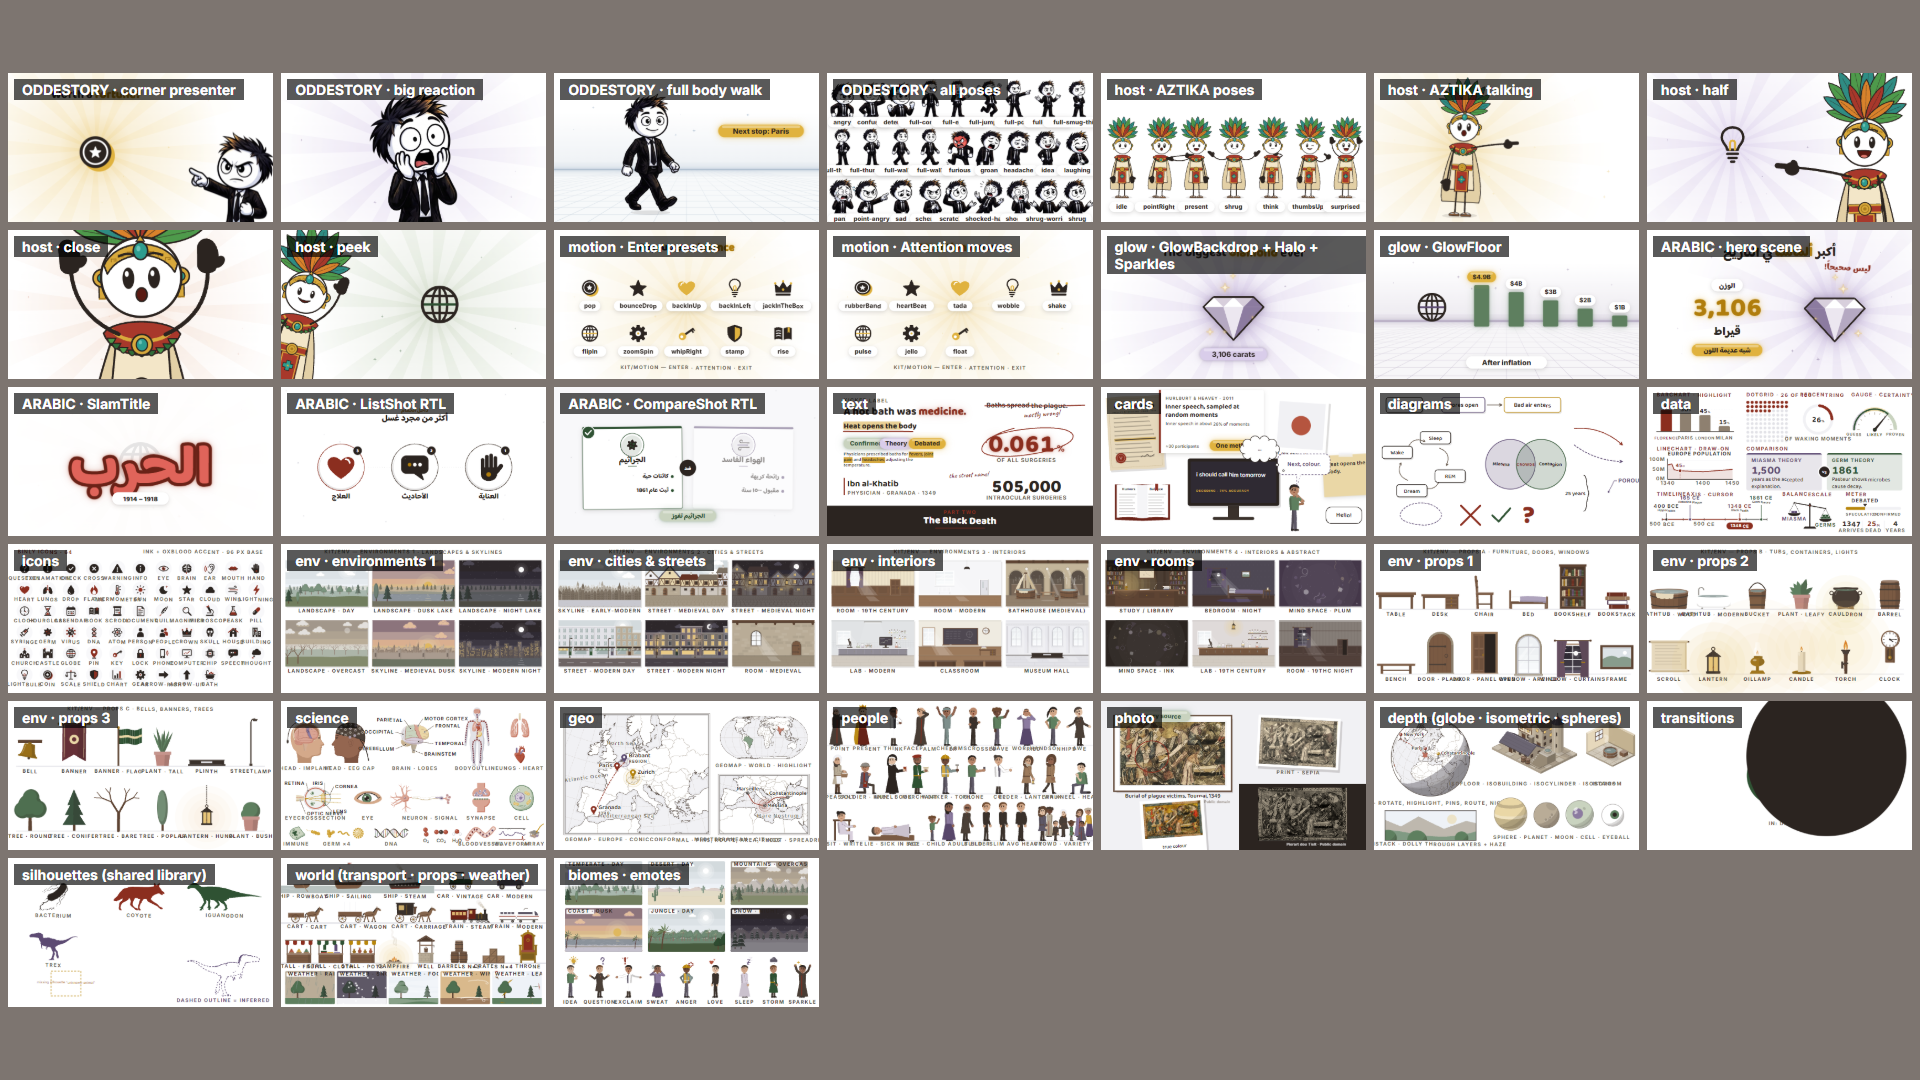
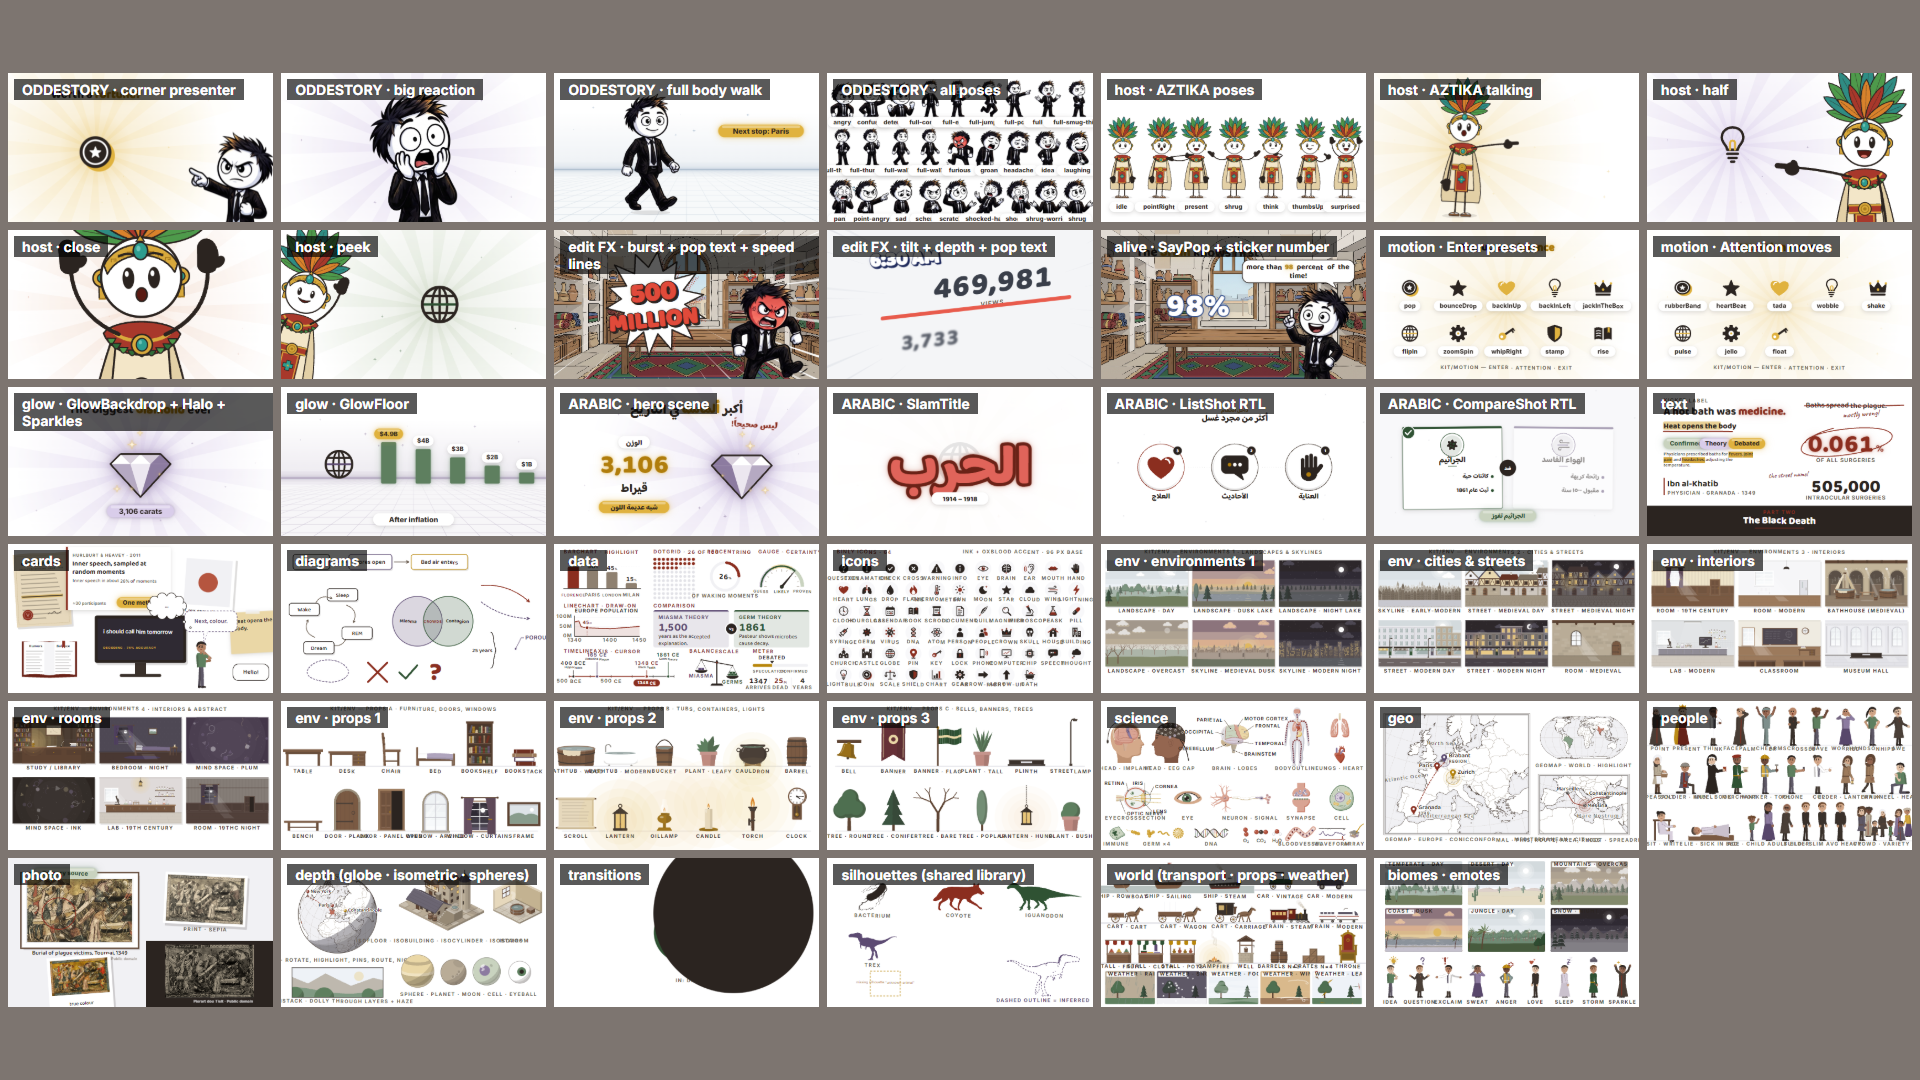
Edit FX kit: PopText (fat 3D sticker words), SpeedLines, Burst + halftone, Tilt, Punch, EmoteMark; docs: use on beats

diff --git a/src/kit/editfx.tsx b/src/kit/editfx.tsx
@@ -1,0 +1,164 @@
+import React from 'react';
+import {clamp01, ease, lerp, rand, spring} from './anim';
+import {C, FONT_SERIF} from './theme';
+import {cueSfx} from './sfx';
+import {textW} from './text';
+
+// ════════════════════════════════════════════════════════════════════════════════════════════════════════════
+// EDIT FX — the high-end YouTube editor's toolbox (owner 2026-10-21: "edits so good, like a real high-end YouTuber"),
+// in Binly's clean style: bold extruded pop text, speed lines from the corners, comic bursts with halftone dots,
+// dynamic tilted "camera" angles, punch-in shake. Use them on BEATS (a number lands, a twist, a joke, a reveal) —
+// they lose power when they never stop. All deterministic; each cues its own sound.
+// ════════════════════════════════════════════════════════════════════════════════════════════════════════════
+
+/**
+ * PopText — big bold sticker-style words like "6:30 AM": white (or `fill`) heavy rounded text with a thick dark
+ * extruded 3D shadow (`depth` px, toward bottom-right) and a thin outline; pops in with a spring + slight tilt.
+ * Arabic works too (Stage swaps the font). size auto-fits `maxW` if given.
+ */
+export const PopText: React.FC<{
+  t: number; at: number; x: number; y: number; text: string; size?: number; fill?: string; shadow?: string; depth?: number;
+  rot?: number; out?: number; maxW?: number; anchor?: 'start' | 'middle' | 'end'; glow?: boolean;
+}> = ({t, at, x, y, text, size = 150, fill = '#FFFFFF', shadow = '#1F2A5C', depth, rot = -3, out, maxW, anchor = 'middle', glow = true}) => {
+  if (t < at - 0.02) return null;
+  const outP = out === undefined ? 0 : clamp01((t - out) / 0.3);
+  if (outP >= 1) return null;
+  const fs = maxW ? Math.min(size, maxW / Math.max(1, textW(text, 1, 'serif', 800) * 1.15)) : size;
+  const d = depth ?? Math.round(fs * 0.075);
+  const k = spring(clamp01((t - at) / 0.45), 0.5);
+  const s = lerp(0.3, 1, k) * (1 - outP * 0.4);
+  const r = rot * (2 - k);
+  cueSfx('popup', `pt@${at}:${text}`, true, x);
+  const common = {x: 0, y: fs * 0.35, textAnchor: anchor, fontFamily: FONT_SERIF, fontWeight: 800, fontSize: fs} as const;
+  return (
+    <g transform={`translate(${x} ${y}) rotate(${r}) scale(${s})`} opacity={clamp01((t - at) * 8) * (1 - outP)}>
+      {/* soft glow so it catches the eye on any background */}
+      {glow && <text {...common} fill={shadow} opacity={0.35} style={{filter: `blur(${(fs * 0.08).toFixed(1)}px)`}}>{text}</text>}
+      {/* extrusion: stacked copies toward bottom-right (thick, dark) */}
+      {Array.from({length: d}, (_, i) => (
+        <text key={i} {...common} x={i + 1} y={fs * 0.35 + i + 1} fill={shadow} stroke={shadow} strokeWidth={fs * 0.1} strokeLinejoin="round">
+          {text}
+        </text>
+      ))}
+      {/* border ring */}
+      <text {...common} fill={shadow} stroke={shadow} strokeWidth={fs * 0.1} strokeLinejoin="round">
+        {text}
+      </text>
+      {/* fat face: fill + same-colour stroke makes the letters chunkier than the font's heaviest weight */}
+      <text {...common} fill={fill} stroke={fill} strokeWidth={fs * 0.045} strokeLinejoin="round">
+        {text}
+      </text>
+    </g>
+  );
+};
+
+/**
+ * SpeedLines — anime/comic focus streaks rushing in from the frame edges toward (cx, cy): "look HERE / this is big".
+ * Animated (they flicker and slide inward). colour: white on photos/dark, ink on white. p = strength 0..1 (fade it).
+ */
+export const SpeedLines: React.FC<{t: number; p?: number; cx?: number; cy?: number; color?: string; n?: number; inner?: number; seed?: number}> = ({
+  t, p = 1, cx = 960, cy = 540, color = '#FFFFFF', n = 46, inner = 420, seed = 3,
+}) => {
+  if (p <= 0) return null;
+  cueSfx('whoosh', `sl@${cx},${cy}`, true, cx, {gain: 0.6});
+  const R = 1500;
+  const frame = Math.floor(t * 12); // re-shuffle 12× per second → flicker like hand-drawn lines
+  return (
+    <g opacity={clamp01(p)}>
+      {Array.from({length: n}, (_, i) => {
+        const r0 = rand(seed * 13 + i * 7.3 + frame * 0.37);
+        const a = (i / n) * Math.PI * 2 + (r0 - 0.5) * 0.12;
+        const start = inner + r0 * 260;
+        const w = 4 + rand(seed + i * 3.1 + frame) * 14;
+        const x1 = cx + Math.cos(a) * start, y1 = cy + Math.sin(a) * start;
+        const x2 = cx + Math.cos(a) * R, y2 = cy + Math.sin(a) * R;
+        const nx = -Math.sin(a) * w, ny = Math.cos(a) * w;
+        return <path key={i} d={`M${x1} ${y1} L${x2 + nx} ${y2 + ny} L${x2 - nx} ${y2 - ny} Z`} fill={color} opacity={0.55 + 0.45 * r0} />;
+      })}
+    </g>
+  );
+};
+
+/** Halftone dot pattern (comic print) — use as a fill: <Halftone id="h1" color="#B4382B" /> then fill="url(#h1)". */
+export const Halftone: React.FC<{id: string; color?: string; size?: number; r?: number}> = ({id, color = '#B4382B', size = 14, r = 3.6}) => (
+  <pattern id={id} width={size} height={size} patternUnits="userSpaceOnUse" patternTransform="rotate(30)">
+    <circle cx={size / 2} cy={size / 2} r={r} fill={color} />
+  </pattern>
+);
+
+/**
+ * Burst — comic explosion star behind a big word/number ("500 MILLION"): spiky starburst with a halftone shadow,
+ * slams in with overshoot. Put PopText on top. colours from the Binly palette by default.
+ */
+export const Burst: React.FC<{t: number; at: number; x: number; y: number; r?: number; spikes?: number; fill?: string; dots?: string; out?: number; seed?: number; rot?: number}> = ({
+  t, at, x, y, r = 330, spikes = 14, fill = '#FFFFFF', dots = '#B4382B', out, seed = 5, rot = -8,
+}) => {
+  if (t < at - 0.02) return null;
+  const outP = out === undefined ? 0 : clamp01((t - out) / 0.3);
+  if (outP >= 1) return null;
+  const k = spring(clamp01((t - at) / 0.4), 0.55);
+  cueSfx('impact', `bu@${at}`, true, x, {gain: 0.8});
+  const pts = Array.from({length: spikes * 2}, (_, i) => {
+    const a = (i / (spikes * 2)) * Math.PI * 2;
+    const rr = i % 2 === 0 ? r * (0.92 + 0.18 * rand(seed + i)) : r * (0.62 + 0.08 * rand(seed * 3 + i));
+    return `${Math.cos(a) * rr} ${Math.sin(a) * rr}`;
+  });
+  const id = `bt${Math.round(x)}_${Math.round(y)}`;
+  return (
+    <g transform={`translate(${x} ${y}) rotate(${rot + (1 - k) * 25}) scale(${lerp(0.2, 1, k) * (1 - outP * 0.5)})`} opacity={1 - outP}>
+      <defs><Halftone id={id} color={dots} /></defs>
+      <path d={`M${pts.join(' L')} Z`} fill={`url(#${id})`} transform="translate(22 26)" />
+      <path d={`M${pts.join(' L')} Z`} fill={fill} stroke={C.ink} strokeWidth={10} strokeLinejoin="round" />
+    </g>
+  );
+};
+
+/**
+ * Tilt — a dynamic "camera angle" on a group (like a stats counter shot at an angle): skews + rotates the content and
+ * drifts slowly so a flat thing feels filmed. Pair with Depth (kit/asset) to blur its far side for the full effect.
+ */
+export const Tilt: React.FC<{t: number; x?: number; y?: number; angle?: number; skew?: number; drift?: number; children?: React.ReactNode}> = ({t, x = 960, y = 540, angle = -8, skew = -10, drift = 1, children}) => {
+  const d = Math.sin(t * 0.6) * 1.2 * drift;
+  return <g transform={`translate(${x} ${y}) rotate(${angle + d}) skewX(${skew}) scale(${1.05 + 0.02 * Math.sin(t * 0.5) * drift}) translate(${-x} ${-y})`}>{children}</g>;
+};
+
+/**
+ * Punch — a punch-in zoom + tiny shake on a beat (a hit, a reveal, a joke): wrap the whole scene. Lasts ~0.5 s.
+ */
+export const Punch: React.FC<{t: number; at: number; x?: number; y?: number; amount?: number; children?: React.ReactNode}> = ({t, at, x = 960, y = 540, amount = 0.12, children}) => {
+  const u = t - at;
+  if (u < 0 || u > 1.2) return <>{children}</>;
+  cueSfx('thump', `pu@${at}`, true, x, {gain: 0.7});
+  const zoom = 1 + amount * Math.exp(-u * 4) * (u < 0.06 ? u / 0.06 : 1);
+  const sh = u < 0.35 ? Math.sin(u * 90) * 10 * (1 - u / 0.35) : 0;
+  return <g transform={`translate(${x + sh} ${y + sh * 0.5}) scale(${zoom}) translate(${-x} ${-y})`}>{children}</g>;
+};
+
+/** EmoteMark — manga emotion symbols near a character's head: 'anger' (vein), 'sweat', 'shock' (lines), 'idea' (bulb glint). */
+export const EmoteMark: React.FC<{t: number; at: number; x: number; y: number; kind: 'anger' | 'sweat' | 'shock' | 'sparkle'; s?: number; color?: string}> = ({t, at, x, y, kind, s = 1, color}) => {
+  if (t < at) return null;
+  const k = spring(clamp01((t - at) / 0.35), 0.6);
+  const pulse = 1 + 0.08 * Math.sin((t - at) * 10);
+  cueSfx(kind === 'anger' ? 'error' : kind === 'sweat' ? 'drip' : kind === 'shock' ? 'pop' : 'sparkle', `em@${at}`, true, x, {gain: 0.6});
+  const col = color ?? (kind === 'anger' ? '#C8372B' : kind === 'sweat' ? '#4F8FD6' : C.ink);
+  const sc = s * k * pulse;
+  return (
+    <g transform={`translate(${x} ${y}) scale(${sc})`}>
+      {kind === 'anger' && (
+        <g stroke={col} strokeWidth={9} strokeLinecap="round" fill="none">
+          <path d="M-30 -8 Q-12 -12 -8 -30" /><path d="M8 -30 Q12 -12 30 -8" /><path d="M30 8 Q12 12 8 30" /><path d="M-8 30 Q-12 12 -30 8" />
+        </g>
+      )}
+      {kind === 'sweat' && <path d="M0 -36 C14 -14 22 0 22 12 C22 26 12 34 0 34 C-12 34 -22 26 -22 12 C-22 0 -14 -14 0 -36 Z" fill={col} stroke={C.ink} strokeWidth={4} />}
+      {kind === 'shock' && (
+        <g stroke={col} strokeWidth={7} strokeLinecap="round">
+          {[-60, -30, 0, 30, 60].map((a) => <line key={a} x1={Math.sin((a * Math.PI) / 180) * 30} y1={-Math.cos((a * Math.PI) / 180) * 30} x2={Math.sin((a * Math.PI) / 180) * 62} y2={-Math.cos((a * Math.PI) / 180) * 62} />)}
+        </g>
+      )}
+      {kind === 'sparkle' && <path d="M0 -40 C4 -6 6 -4 40 0 C6 4 4 6 0 40 C-4 6 -6 4 -40 0 C-6 -4 -4 -6 0 -40 Z" fill={col === C.ink ? C.goldLight : col} stroke={C.ink} strokeWidth={3} />}
+    </g>
+  );
+};
+
+/** easing helper re-export for scenes that combine these */
+export const editEase = ease;

diff --git a/src/gallery/pages/editfx.tsx b/src/gallery/pages/editfx.tsx
@@ -1,0 +1,42 @@
+import React from 'react';
+import {Stage} from '../../kit/stage';
+import {BgPlate, Depth} from '../../kit/asset';
+import {ImageHost} from '../../kit/image-host';
+import {PopText, SpeedLines, Burst, Tilt, Punch, EmoteMark} from '../../kit/editfx';
+import {Stat} from '../../kit/text';
+import {C} from '../../kit/theme';
+import {ramp, ease} from '../../kit/anim';
+
+// Edit FX showcase. 0–3: burst + "500 MILLION" + speed lines + angry host with anger mark + punch-in.
+// 3–6: tilted counter "469,981" with depth blur + PopText "6:30 AM". Stills 1.6, 4.6.
+export const EditFx: React.FC<{t: number}> = ({t}) => {
+  if (t < 3)
+    return (
+      <Stage>
+        <Punch t={t} at={0.5}>
+          <BgPlate slug="_pilot" file="treasury.jpg" t={t} a={0} b={3} push="in" amount={0.05} />
+          <SpeedLines t={t} p={ramp(t, 0.45, 0.6) * (1 - ramp(t, 2.2, 2.8))} cx={720} cy={520} color="#FFFFFF" />
+          <Burst t={t} at={0.5} x={720} y={520} r={360} />
+          <PopText t={t} at={0.6} x={720} y={440} text="500" size={190} fill="#E04A3A" shadow="#2B2420" rot={-6} />
+          <PopText t={t} at={0.75} x={720} y={640} text="MILLION" size={170} fill="#E04A3A" shadow="#2B2420" rot={-6} />
+          <ImageHost t={t} who="oddestory" x={1560} y={1110} h={760} flip poses={[[0, 'furious']]} id="fx1" />
+          <EmoteMark t={t} at={0.9} x={1420} y={330} kind="anger" s={1.3} />
+        </Punch>
+      </Stage>
+    );
+  return (
+    <Stage>
+      <rect x={0} y={0} width={1920} height={1080} fill="#F4F5F7" />
+      <SpeedLines t={t} p={0.6} cx={1100} cy={520} color="#D9DCE3" inner={650} />
+      <Tilt t={t} x={960} y={520} angle={-7} skew={-8}>
+        <Stat x={1180} y={480} value="469,981" p={ramp(t, 3.1, 4.4, ease.linear)} size={210} color="#3A3F4A" anchor="middle" label="views" />
+        <rect x={420} y={560} width={1300} height={26} rx={13} fill="#E2E2E7" />
+        <rect x={420} y={560} width={1300 * ramp(t, 3.2, 4.4)} height={26} rx={13} fill="#E85B4C" />
+        <Depth blur={6}>
+          <Stat x={760} y={800} value="3,733" p={ramp(t, 3.3, 4.4, ease.linear)} size={150} color="#5A5F6A" anchor="middle" />
+        </Depth>
+      </Tilt>
+      <PopText t={t} at={4} x={560} y={200} text="6:30 AM" size={140} fill="#FFFFFF" shadow="#1F2A5C" rot={-4} />
+    </Stage>
+  );
+};

diff --git a/src/gallery/index.ts b/src/gallery/index.ts
@@ -27,6 +27,7 @@ import {Pilot} from './pages/pilot';
 import {Pilot2} from './pages/pilot2';
 import {DepthDemo} from './pages/depth2';
 import {Alive} from './pages/alive';
+import {EditFx} from './pages/editfx';
 
 // Kit showcase pages. Render a page: node tools/still.mjs Gallery --props '{"page":"icons"}' --at 2
 export const GALLERY: Record<string, React.FC<{t: number}>> = {
@@ -42,6 +43,7 @@ export const GALLERY: Record<string, React.FC<{t: number}>> = {
   pilot2: Pilot2,
   depthdemo: DepthDemo,
   alive: Alive,
+  editfx: EditFx,
   'ihost-all': IHostAll,
   glowfloor: GlowFloorPage,
   text: Text,

diff --git a/.claude/agents/binly-builder.md b/.claude/agents/binly-builder.md
@@ -143,6 +143,9 @@ hero objects ≥ ~300 px wide. Never generate or draw text into art — labels a
 object, on the path, above the speaker via `<SayPop t x y spoken={SPOKEN} from to accent tail/>` from kit/text with
 `import {SPOKEN} from '../speech'`), then leave; objects and hosts move with purpose; big numbers can use
 `<Stat … sticker="#2F4C8C">` (white with a thick outline, like a sticker). Never a static frame under narration.
+**Edit FX on beats (kit/editfx):** a big number/word → `PopText` (+ `Burst` for a shock/record, `SpeedLines` for
+"look here"), a twist/hit → `Punch`, a data shot → `Tilt` (+ Depth on its far side), a reaction → `EmoteMark` by the
+host's head. 1–3 FX moments per minute, each on its word; never stacked all the time (they lose power).
 **Depth (polish, sparingly):** `<Depth blur={10}>…foreground host/object…</Depth>` softens a near layer like a camera
 focus; animate blur 0→10 for a rack-focus. For dialogue/reveal shots only — never text, never the whole frame.
 **Size on phones:** characters big — close/medium shots most of the time (face ≈ ⅓ frame height in a close-up).
@@ -330,7 +333,8 @@ If not, the pictures aren't telling the story yet.
    (SayPop for the key line); the camera pushes in on what matters, punches in on a surprise, pans to the next thing; a
    rack-focus or a slam headline lands the big beats. Supporting text lives IN the scene, in many positions — not in one
    fixed caption spot, never as running subtitles. Every element moves for a reason the narration gives it, and every
-   movement is heard. Ask of every second: "would a great YouTube editor leave this frame like this?" If not, animate it.
+   movement is heard. Use the editor's toolbox on the beats: fat 3D pop words, comic bursts, speed lines, punch-ins,
+   tilted camera angles, emotion marks (kit/editfx) — like the best YouTubers, in Binly's clean style. Ask of every second: "would a great YouTube editor leave this frame like this?" If not, animate it.
 12. **Land the ending.** Pay off the opening question with the strongest image, echo the first shot, stop when the
     idea is complete.
 

diff --git a/docs/KIT.md b/docs/KIT.md
@@ -33,6 +33,11 @@ flip swapSfx shadow id/>` · `imageHostShot(corner|big|full|peek|tiny, left|cent
 (generated by tools/host-manifest.mjs from public/_hosts/<who>/*.png). Gallery "ihost" (scenes) · "ihost-all" (every pose).
 Cut new poses out of a white sheet: `node tools/cutout.mjs <img> --out public/_hosts/<who> --names a,b`.
 
+**edit FX** (kit/editfx — high-end YouTube editing, use on BEATS): `PopText {t,at,x,y,text,size,fill,shadow,depth,rot,out}`
+fat sticker words with a 3D extruded shadow ("6:30 AM") · `SpeedLines {t,p,cx,cy,color}` focus streaks from the edges ·
+`Burst {t,at,x,y,r,fill,dots}` comic starburst with halftone ("500 MILLION") · `Tilt {t,x,y,angle,skew}` dynamic camera angle ·
+`Punch {t,at,amount}` punch-in zoom + shake · `EmoteMark {t,at,x,y,kind:anger|sweat|shock|sparkle}` · `Halftone`. Gallery "editfx".
+
 **alive text** (kit/text): `SayPop {t,x,y,spoken,from,to,out?,size=54,accent,tail}` — key spoken words pop one by one in a
 speech bubble as they are said (SPOKEN from src/videos/<slug>/speech.ts, tools/speech-map.mjs) · `Stat … sticker="<colour>"`
 white number with thick outline. Headlines use Baloo 2 (English) / Baloo Bhaijaan 2 (Arabic), weight 800. Gallery "alive".

diff --git a/docs/kit/core.md b/docs/kit/core.md
@@ -30,6 +30,11 @@ flip swapSfx shadow id/>` · `imageHostShot(corner|big|full|peek|tiny, left|cent
 (generated by tools/host-manifest.mjs from public/_hosts/<who>/*.png). Gallery "ihost" (scenes) · "ihost-all" (every pose).
 Cut new poses out of a white sheet: `node tools/cutout.mjs <img> --out public/_hosts/<who> --names a,b`.
 
+**edit FX** (kit/editfx — high-end YouTube editing, use on BEATS): `PopText {t,at,x,y,text,size,fill,shadow,depth,rot,out}`
+fat sticker words with a 3D extruded shadow ("6:30 AM") · `SpeedLines {t,p,cx,cy,color}` focus streaks from the edges ·
+`Burst {t,at,x,y,r,fill,dots}` comic starburst with halftone ("500 MILLION") · `Tilt {t,x,y,angle,skew}` dynamic camera angle ·
+`Punch {t,at,amount}` punch-in zoom + shake · `EmoteMark {t,at,x,y,kind:anger|sweat|shock|sparkle}` · `Halftone`. Gallery "editfx".
+
 **alive text** (kit/text): `SayPop {t,x,y,spoken,from,to,out?,size=54,accent,tail}` — key spoken words pop one by one in a
 speech bubble as they are said (SPOKEN from src/videos/<slug>/speech.ts, tools/speech-map.mjs) · `Stat … sticker="<colour>"`
 white number with thick outline. Headlines use Baloo 2 (English) / Baloo Bhaijaan 2 (Arabic), weight 800. Gallery "alive".

diff --git a/docs/BUILDER.md b/docs/BUILDER.md
@@ -88,6 +88,9 @@ hero objects ≥ ~300 px wide. Never generate or draw text into art — labels a
 object, on the path, above the speaker via `<SayPop t x y spoken={SPOKEN} from to accent tail/>` from kit/text with
 `import {SPOKEN} from '../speech'`), then leave; objects and hosts move with purpose; big numbers can use
 `<Stat … sticker="#2F4C8C">` (white with a thick outline, like a sticker). Never a static frame under narration.
+**Edit FX on beats (kit/editfx):** a big number/word → `PopText` (+ `Burst` for a shock/record, `SpeedLines` for
+"look here"), a twist/hit → `Punch`, a data shot → `Tilt` (+ Depth on its far side), a reaction → `EmoteMark` by the
+host's head. 1–3 FX moments per minute, each on its word; never stacked all the time (they lose power).
 **Depth (polish, sparingly):** `<Depth blur={10}>…foreground host/object…</Depth>` softens a near layer like a camera
 focus; animate blur 0→10 for a rack-focus. For dialogue/reveal shots only — never text, never the whole frame.
 **Size on phones:** characters big — close/medium shots most of the time (face ≈ ⅓ frame height in a close-up).

diff --git a/docs/RETENTION.md b/docs/RETENTION.md
@@ -46,7 +46,8 @@ If not, the pictures aren't telling the story yet.
    (SayPop for the key line); the camera pushes in on what matters, punches in on a surprise, pans to the next thing; a
    rack-focus or a slam headline lands the big beats. Supporting text lives IN the scene, in many positions — not in one
    fixed caption spot, never as running subtitles. Every element moves for a reason the narration gives it, and every
-   movement is heard. Ask of every second: "would a great YouTube editor leave this frame like this?" If not, animate it.
+   movement is heard. Use the editor's toolbox on the beats: fat 3D pop words, comic bursts, speed lines, punch-ins,
+   tilted camera angles, emotion marks (kit/editfx) — like the best YouTubers, in Binly's clean style. Ask of every second: "would a great YouTube editor leave this frame like this?" If not, animate it.
 12. **Land the ending.** Pay off the opening question with the strongest image, echo the first shot, stop when the
     idea is complete.
 
